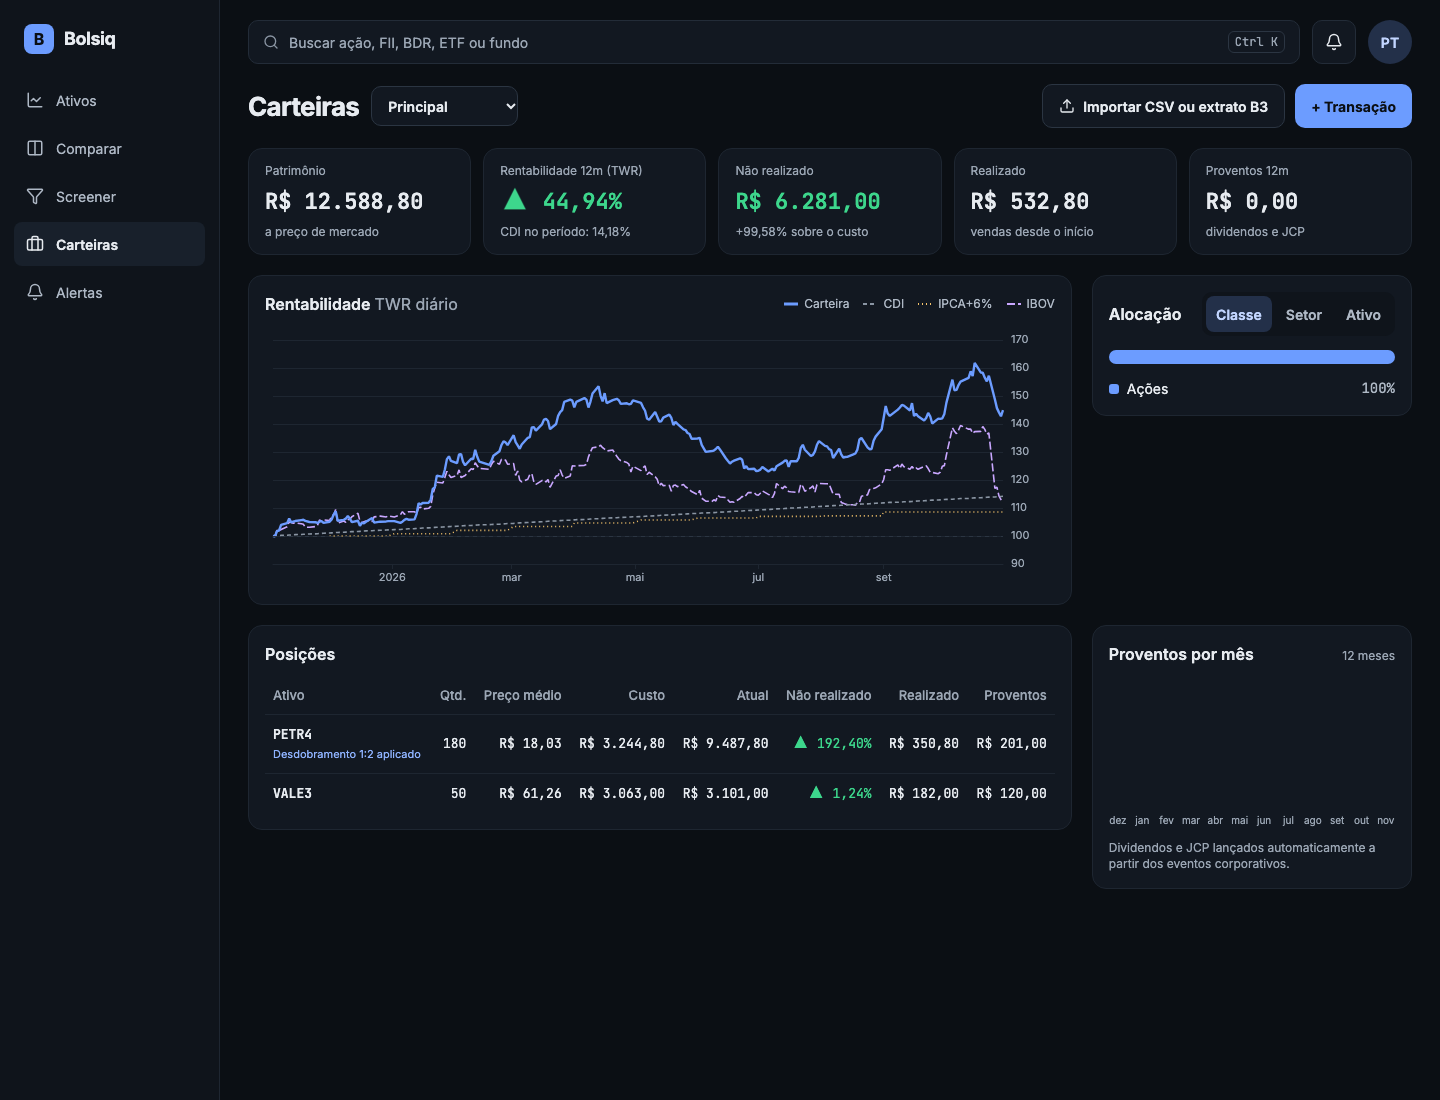
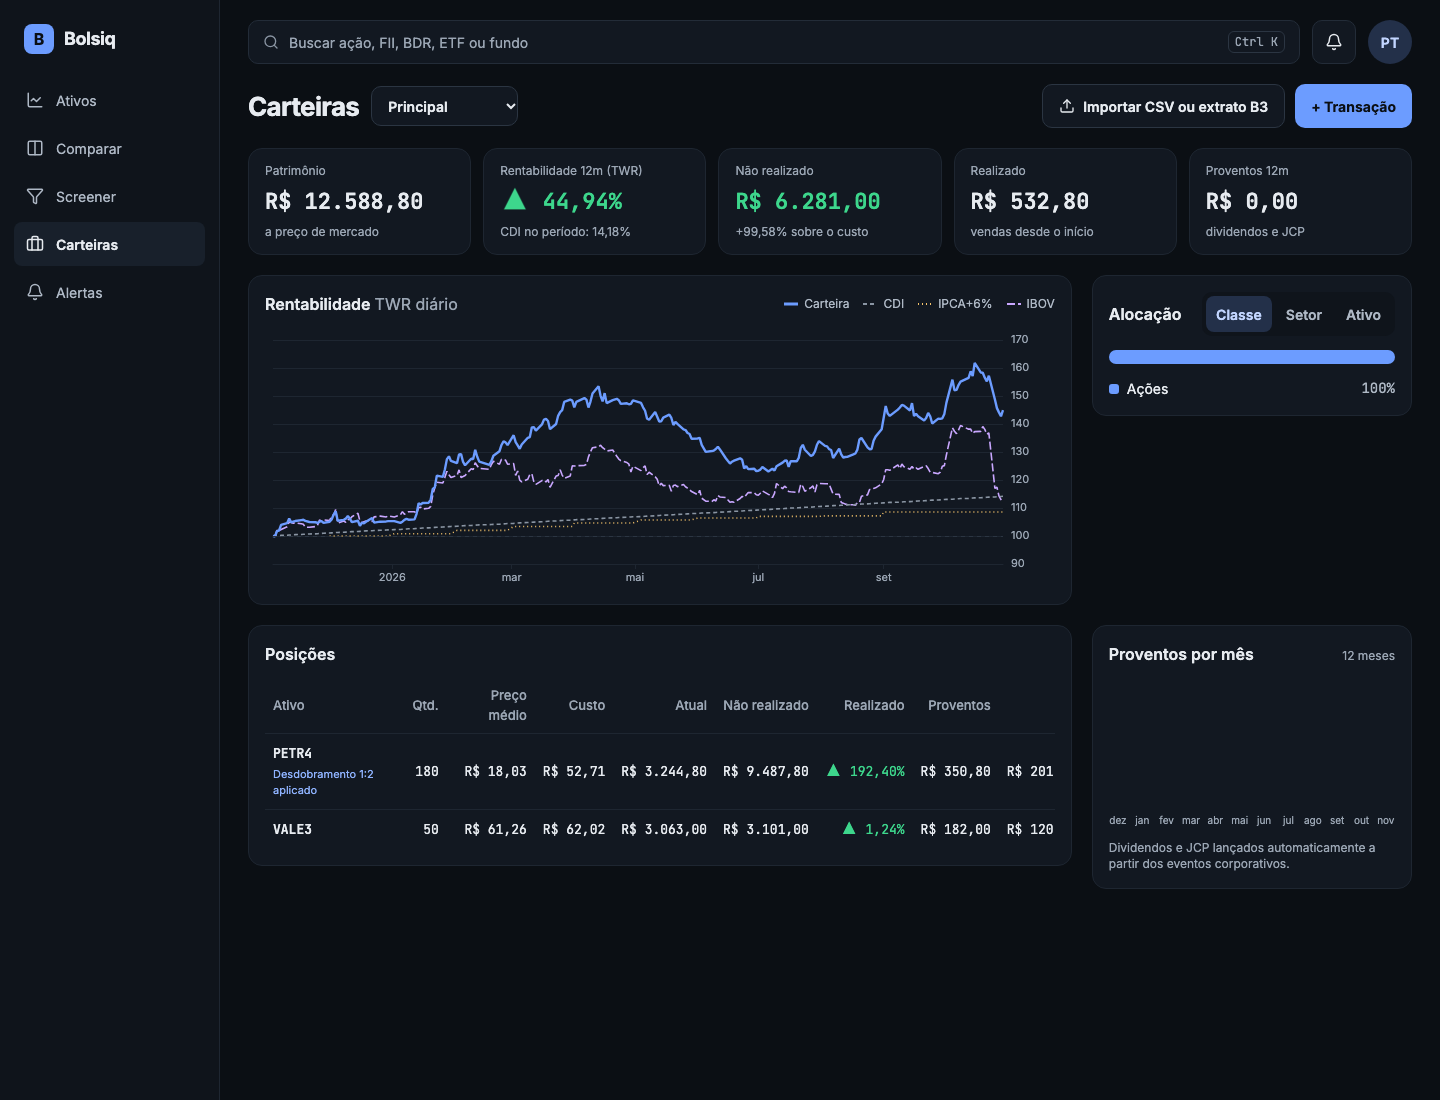
fix(web): patrimonio com todas as cotacoes, aviso de ativo sem cotacao e coluna de preco atual (#17)

diff --git a/apps/web/componentes/carteira/PaginaDaCarteira.tsx b/apps/web/componentes/carteira/PaginaDaCarteira.tsx
@@ -193,11 +193,14 @@ function Indicador({
   valor,
   sub,
   cor,
+  alerta = false,
 }: {
   rotulo: string;
   valor: string;
   sub: string;
   cor?: string;
+  /** Subtitulo em destaque: o numero acima esta incompleto. */
+  alerta?: boolean;
 }) {
   return (
     <div className="flex flex-col gap-1.5 rounded-card border border-border bg-surface px-4 py-3.5">
@@ -210,7 +213,7 @@ function Indicador({
       >
         {valor}
       </span>
-      <span className="text-xs text-text-3">{sub}</span>
+      <span className={cn("text-xs", alerta ? "text-warn" : "text-text-3")}>{sub}</span>
     </div>
   );
 }
@@ -226,7 +229,12 @@ function Resumo({ p }: { p: PainelDaCarteira }) {
       <Indicador
         rotulo="Patrimônio"
         valor={r.patrimonio === null ? "-" : formatarDinheiro(r.patrimonio)}
-        sub="a preço de mercado"
+        sub={
+          r.sem_cotacao.length === 0
+            ? "a preço de mercado"
+            : `sem cotação, fora da soma: ${r.sem_cotacao.join(", ")}`
+        }
+        alerta={r.sem_cotacao.length > 0}
       />
       <Indicador
         rotulo="Rentabilidade 12m (TWR)"
@@ -443,7 +451,7 @@ function Posicoes({ p }: { p: PainelDaCarteira }) {
     >
       <h2 className="m-0 text-base font-semibold">Posições</h2>
       <div className="overflow-x-auto">
-        <table className="w-full min-w-[720px] border-collapse text-[13px]">
+        <table className="w-full min-w-[820px] border-collapse text-[13px]">
           <thead>
             <tr className="text-text-3">
               <th scope="col" className="p-2 text-left font-medium">
@@ -482,6 +490,11 @@ function Posicoes({ p }: { p: PainelDaCarteira }) {
                   {formatarNumero(x.quantidade, Number(x.quantidade) % 1 ? 4 : 0)}
                 </td>
                 <td className={num}>{formatarDinheiro(x.preco_medio)}</td>
+                <td className={num}>
+                  {x.preco_atual === null
+                    ? "sem cotação"
+                    : formatarDinheiro(x.preco_atual)}
+                </td>
                 <td className={num}>{formatarDinheiro(x.custo_total)}</td>
                 <td className={num}>
                   {x.valor_de_mercado === null

diff --git a/apps/web/lib/carteira.ts b/apps/web/lib/carteira.ts
@@ -257,10 +257,18 @@ async function ou<T>(caminho: string, validade: number): Promise<T | null> {
 async function cotacoes(tickers: string[]): Promise<Map<string, LiveQuote>> {
   const lotes: string[][] = [];
   for (let i = 0; i < tickers.length; i += 20) lotes.push(tickers.slice(i, i + 20));
+  const lote = (l: string[]) =>
+    ou<{ data: LiveQuote[] }>(`quotes/${l.join(",")}`, VALIDADE.quotes);
   const respostas = await Promise.all(
-    lotes.map((l) => ou<{ data: LiveQuote[] }>(`quotes/${l.join(",")}`, VALIDADE.quotes)),
+    // Lote que falha (um ticker invalido, limite do /v1) e refeito ativo por
+    // ativo: sem isso um erro tirava 20 ativos do patrimonio de uma vez.
+    lotes.map(
+      async (l) =>
+        (await lote(l))?.data ??
+        (await Promise.all(l.map((t) => lote([t])))).flatMap((r) => r?.data ?? []),
+    ),
   );
-  return new Map(respostas.flatMap((r) => r?.data ?? []).map((q) => [q.ticker, q]));
+  return new Map(respostas.flat().map((q) => [q.ticker, q]));
 }
 
 async function cadastros(tickers: string[]): Promise<Map<string, AssetDetail>> {
@@ -288,6 +296,8 @@ export interface PainelDaCarteira {
     proventos_12m: string;
     twr_12m: number | null;
     cdi_12m: number | null;
+    /** Posicoes abertas sem cotacao: ficam fora do patrimonio e do nao realizado. */
+    sem_cotacao: string[];
   };
   posicoes: PosicaoNaTela[];
   alocacao: Record<"classe" | "setor" | "ativo", FatiaDeAlocacao[]>;
@@ -422,6 +432,9 @@ export async function painel(uid: string, id: string): Promise<PainelDaCarteira>
       proventos_12m: moeda(proventos12m),
       twr_12m: retornoDaSerie(serie.map((s) => s.carteira)),
       cdi_12m: retornoDaSerie(nivelCdi),
+      sem_cotacao: posicoes
+        .filter((p) => p.valor_de_mercado === null)
+        .map((p) => p.ticker),
     },
     posicoes,
     alocacao: {
